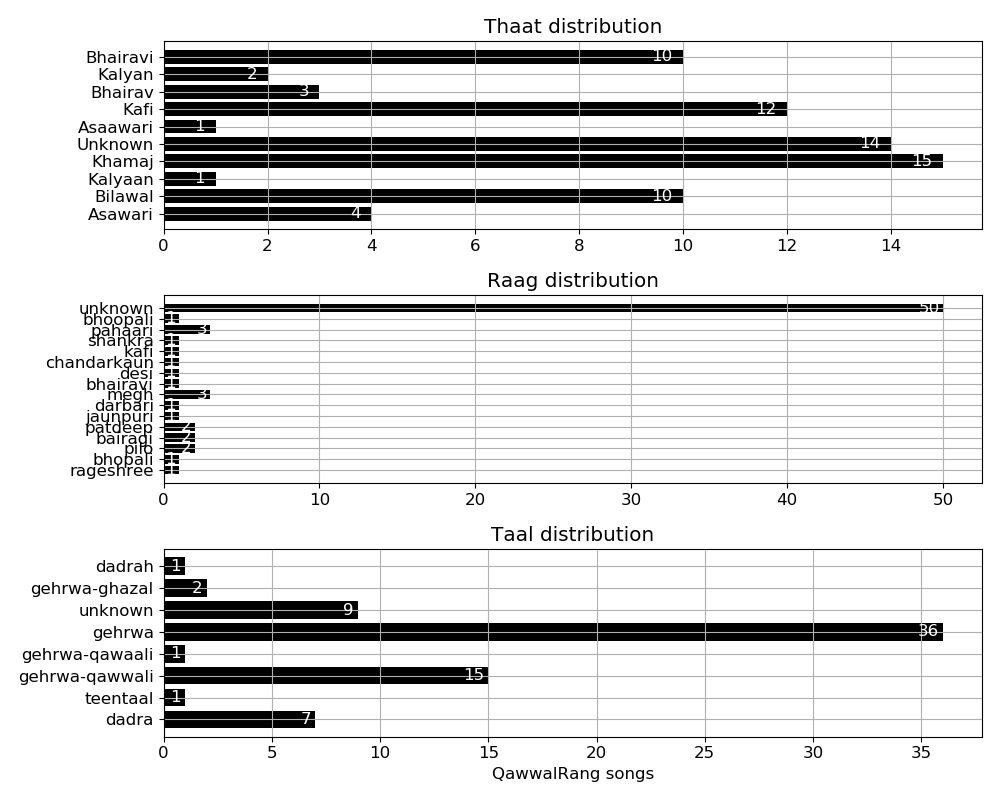
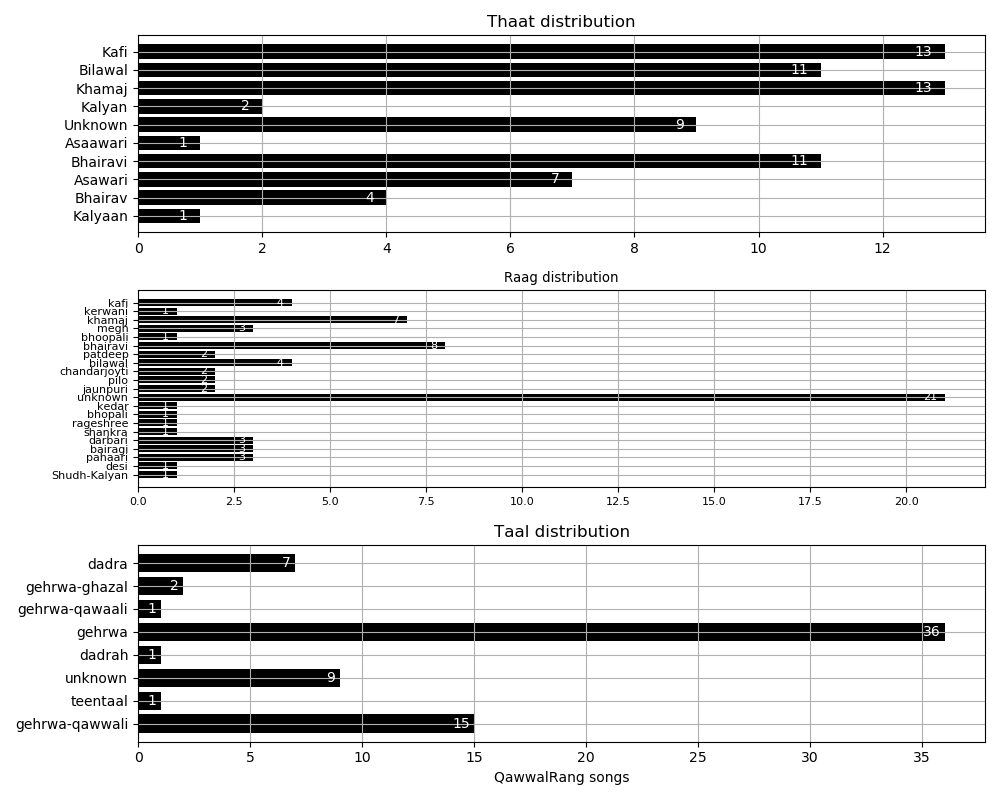
More thaat/raag annotations (#2)
Summary: Correction of thaat/raag labels after discussions

diff --git a/src/qdsb.py b/src/qdsb.py
@@ -281,7 +281,7 @@ class QawalRang:
 
         # plot musical properties
         thaats, raags, taals = self.__extract_musical_info()
-        plt.rcParams.update({'font.size': 12})
+        plt.rcParams.update({'font.size': 10})
         fig3 = plt.figure(figsize=(10,8))
         axes3 = fig3.add_subplot(311)
         thaatColors = plt.get_cmap('inferno')(np.linspace(0.25, 0.95), len(thaats))
@@ -301,6 +301,7 @@ class QawalRang:
         plt.grid()
         plt.tight_layout()
 
+        plt.rcParams.update({'font.size': 8})
         axes4 = fig3.add_subplot(312)
         RaagColors = plt.get_cmap('inferno')(np.linspace(0.25, 0.95), len(raags))
         RaagAxis = np.arange(len(raags))
@@ -319,6 +320,8 @@ class QawalRang:
 
         plt.grid()
         plt.tight_layout()
+
+        plt.rcParams.update({'font.size': 10})
         axes5 = fig3.add_subplot(313)
         TaalColors = plt.get_cmap('inferno')(np.linspace(0.25, 0.95), len(taals))
         TaalAxis = np.arange(len(taals))
